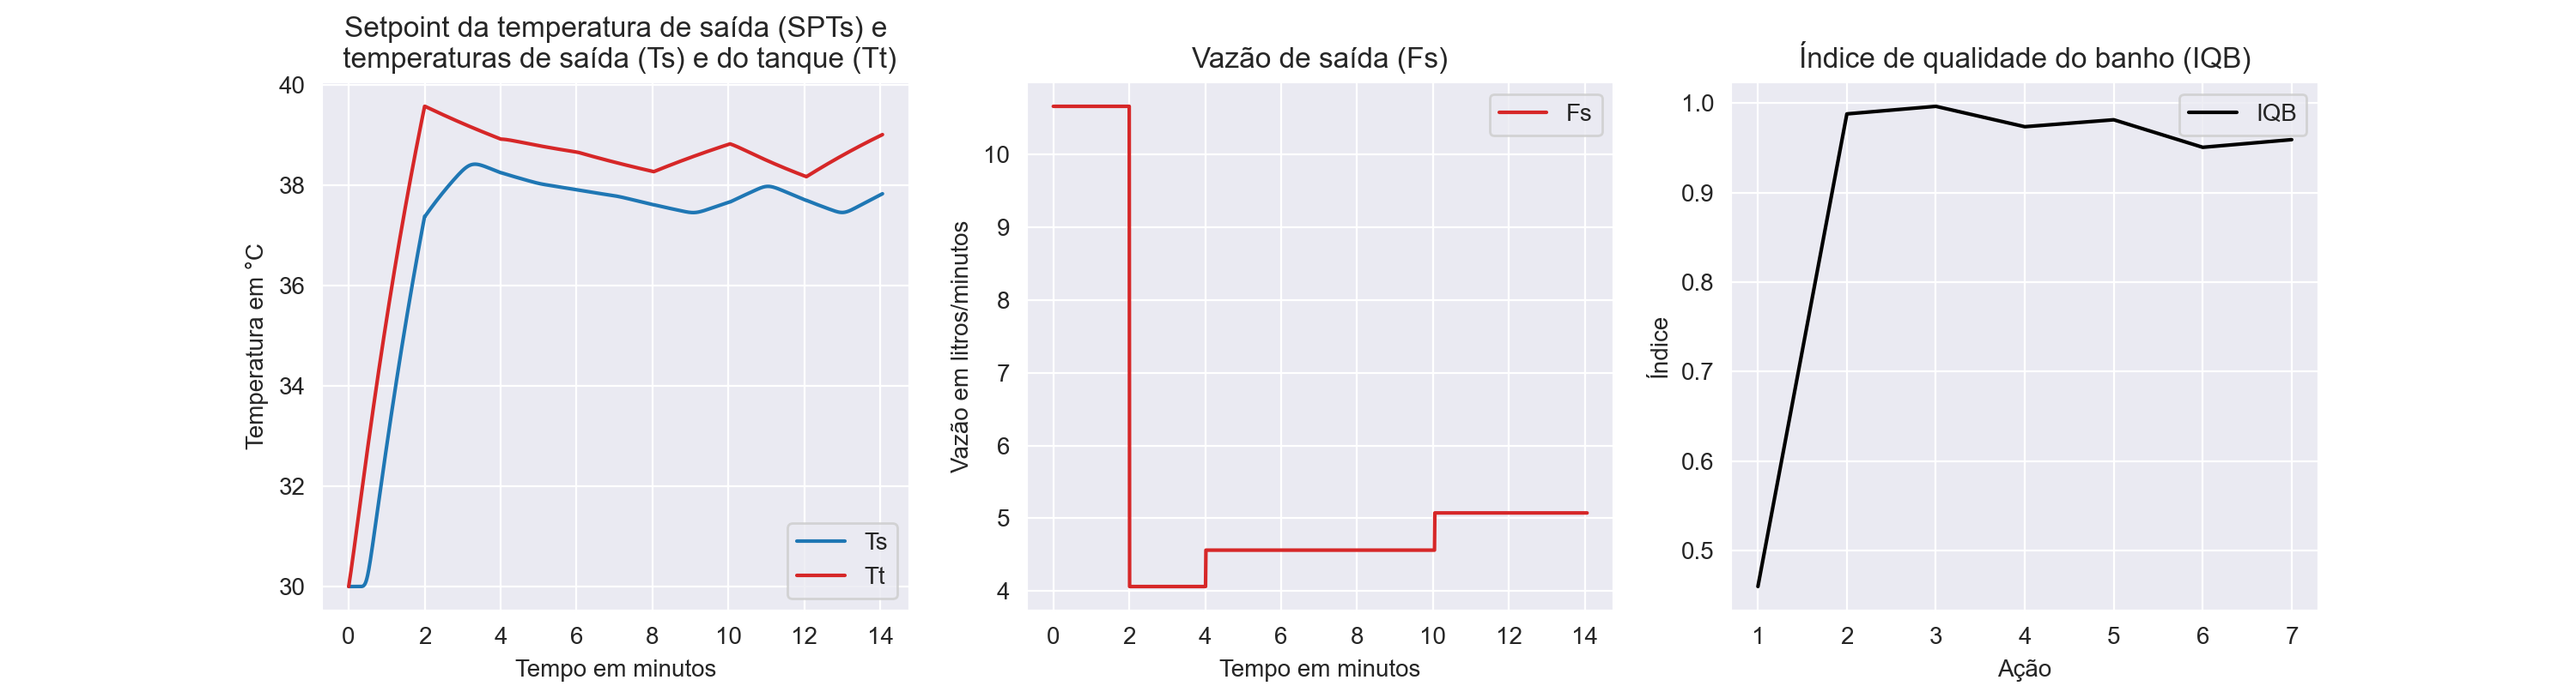
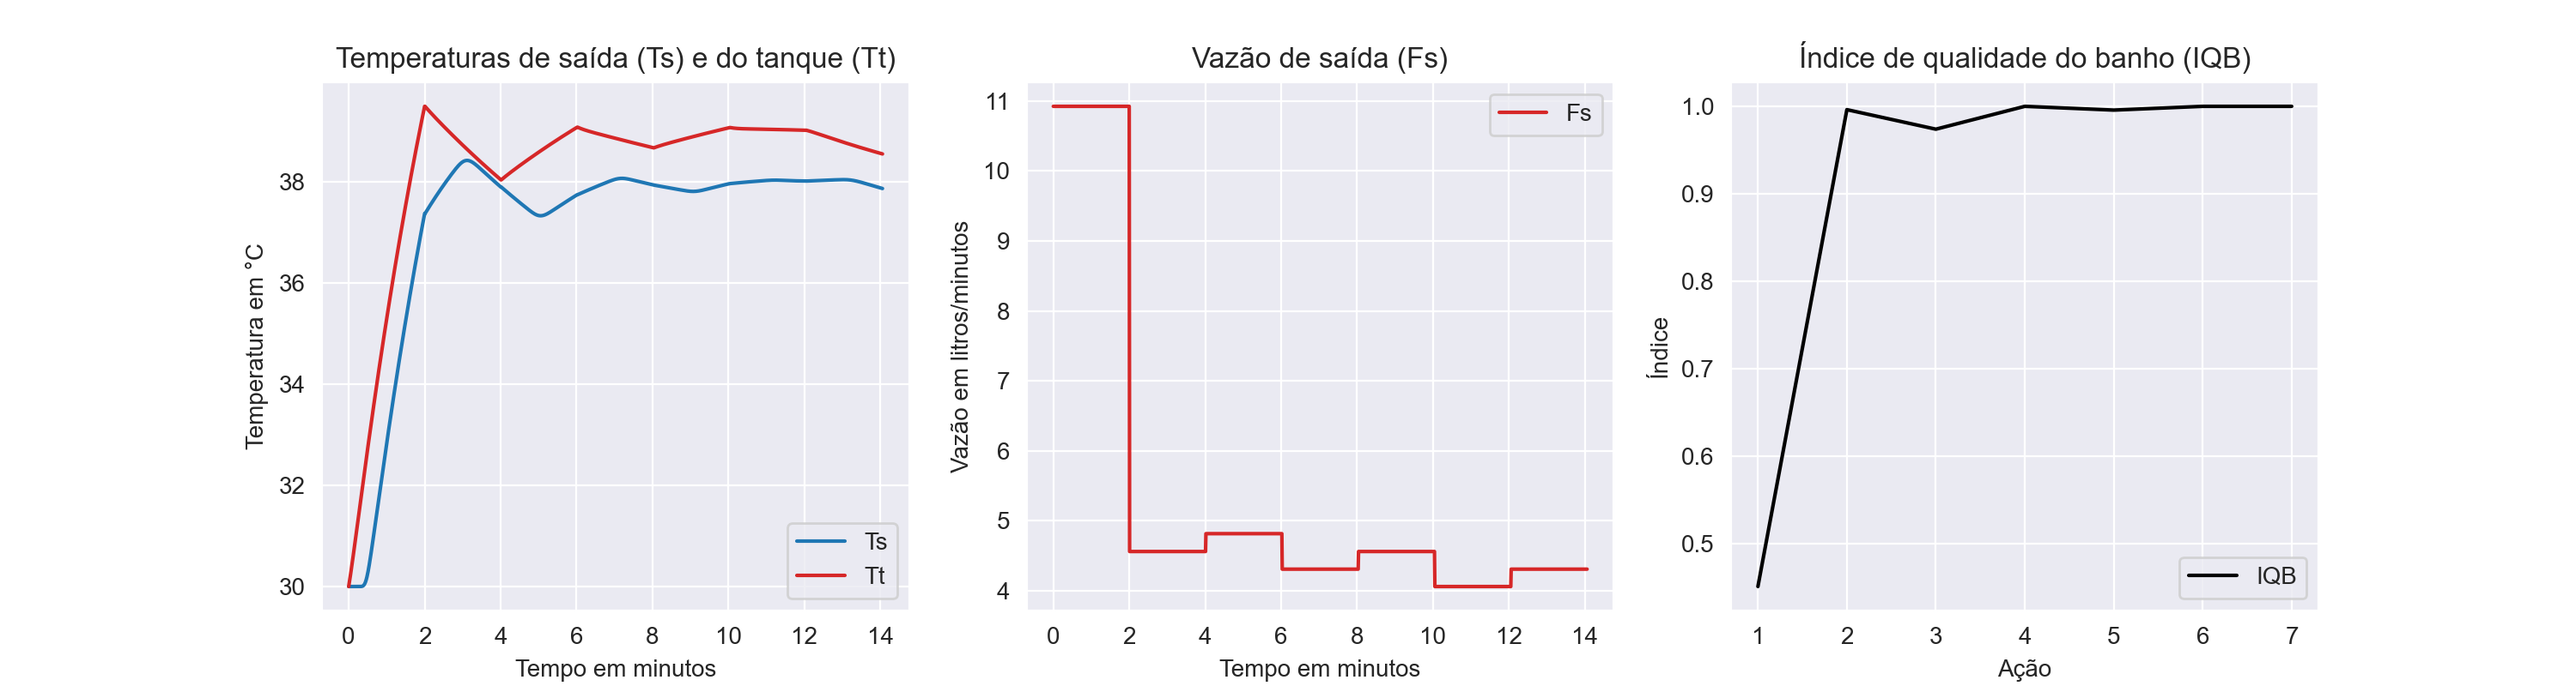
Updates

diff --git a/treina_agente.py b/treina_agente.py
@@ -363,7 +363,7 @@ def avalia_agente(nome_algoritmo, Tinf):
     path = path_root + "results_" + nome_algoritmo
 
     # Carrega o agente treinado:
-    agent = Algorithm.from_checkpoint(glob.glob(path +"/*")[-5])
+    agent = Algorithm.from_checkpoint(glob.glob(path +"/*")[-1])
 
     # Constrói o ambiente:
     env = ShowerEnv({"Tinf": Tinf, "nome_algoritmo": nome_algoritmo})
@@ -470,7 +470,7 @@ def avalia_agente(nome_algoritmo, Tinf):
     fig, ax = plt.subplots(1, 3, figsize=(15, 4))
     ax[0].plot(tempo_total, Ts, label="Ts", color="tab:blue", linestyle="solid")
     ax[0].plot(tempo_total, Tt, label="Tt", color="tab:red", linestyle="solid")
-    ax[0].set_title("Setpoint da temperatura de saída (SPTs) e\n temperaturas de saída (Ts) e do tanque (Tt)")
+    ax[0].set_title("Temperaturas de saída (Ts) e do tanque (Tt)")
     ax[0].set_xlabel("Tempo em minutos")
     ax[0].set_ylabel("Temperatura em °C")
     ax[0].legend()
